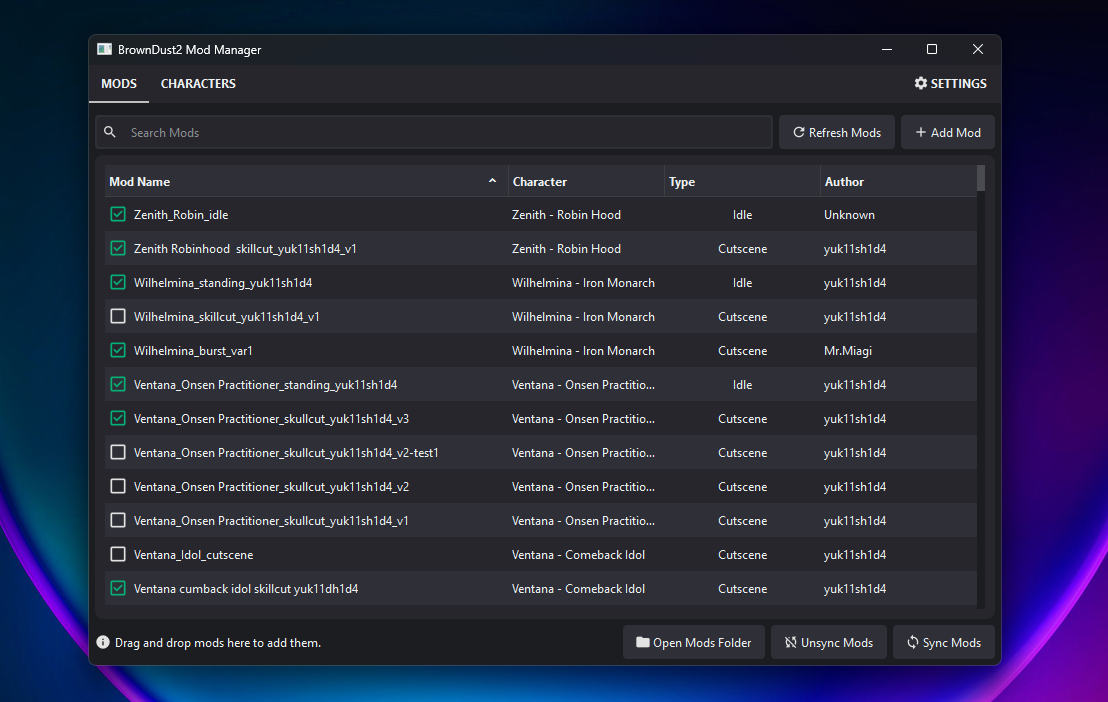
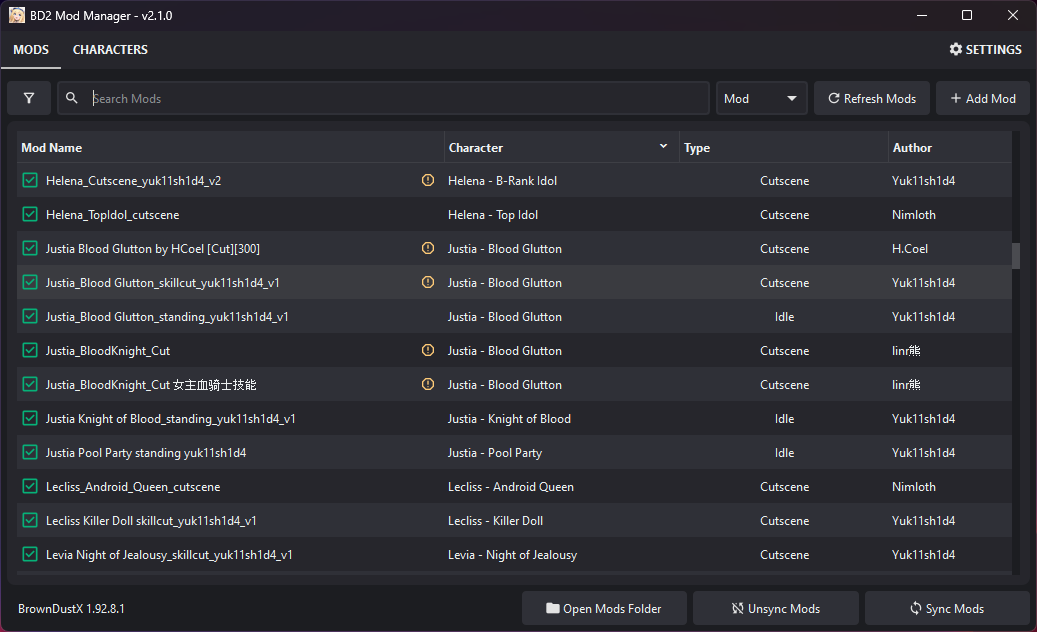
:bookmark: Release v2.2.0 and update README

diff --git a/src/gui/main.py b/src/gui/main.py
@@ -22,7 +22,7 @@ LANGUAGE_PATH = app_path / "gui" / "translations"
 class MainWindow(QMainWindow):
     def __init__(self, mod_manager: BD2ModManager, config_manager: BD2MMConfigManager):
         super().__init__()
-        self.setWindowTitle("BD2 Mod Manager - v2.1.0")
+        self.setWindowTitle("BD2 Mod Manager - v2.2.0")
         self.setObjectName("mainWindow")
         self.setGeometry(600, 250, 800, 600)
         

diff --git a/README.md b/README.md
@@ -1,49 +1,94 @@
-## Brown Dust 2 Mod Manager
+# Brown Dust 2 Mod Manager
 
-Manage your Brown Dust 2 mods.
-
----
-
-Download here: [Github Releases](https://github.com/bruhnn/BD2ModManager/releases)
+**Easily manage your Brown Dust 2 mods.**
 
 ---
 
-If you have any problems or ideas, feel free to contact me on Discord: @bruhnnn
+**Download:** *[BD2ModManager on GitHub Releases](https://github.com/bruhnn/BD2ModManager/releases)*
 
 
----
-
-## Features
-
-- Simple drag-and-drop mod installation  
-- Enable or disable mods with a click  
-- Search installed mods quickly  
-- Check which characters have a specific mod type installed  
+*If you have any questions or suggestions, contact me on Discord: `@bruhnnn`*
 
 ---
 
-## How to Get Started
-
-1. Download the app.  
-2. Select your Brown Dust 2 game directory.  
-3. Add your mods by dragging and dropping them into the manager or moving into `mods` folder.  
-4. Enable or disable mods.
-5. Make a backup of your mods.
-6. Sync your mods. This will create a folder named `BD2MM` inside the `BDX` mods folder with all your enabled mods.
-
 ---
+## 🔥 New in v2.2.0
+- Remembers and restores **window size and position**
+- Supports installing **.zip mods** (via drag-and-drop or the "Add Mod" button)
+- Fixed: **"Find Authors"** now works better (still experimental, only works for some mods and only if the mod folder hasn’t been modified)
+- You can now **edit `.modfile` JSON** directly in the manager 
+→ Right-click a mod and select **"Edit Modfile"**
 
-## Screenshots
 
-### Mods Page v1.1.0
-![Mods Page](./screenshots//mods_page_2.png)  
+## ✨ Features
 
-### Characters Page v1.1.0
-![Characters Page](./screenshots//characters_page_1.png)
+- Quick mod search
+- Filter by mod name, character, author, or mod type
+- Copy mods into the game folder with one click (symlink supported)
+- Simple drag-and-drop mod installation
+- Enable or disable mods with one click
+- Check which characters have a specific mod type installed
+- Check if a mod conflict with anothers (need to refresh the mod list if enabled a mod to see)
 
 
 ---
 
-### Credits
-- Characters assets by https://github.com/myssal/Brown-Dust-2-Asset
-- Thanks to Synae for Brown Dust X
+## 🛠 How to Use
+
+1. **Download** the app from [GitHub Releases](https://github.com/bruhnn/BD2ModManager/releases).
+2. **Select your Brown Dust 2 directory** (where `browndust 2.exe` is located)
+   - Example: F:\Neowiz\Browndust2\Browndust2_10000001
+3. **Add your mods** by:
+   - Dragging and dropping them into the Mod Manager  
+   - Or moving them into the `mods/` folder  
+     ⚠ **Note:** This is *not* the BrownDustX `mods` directory. It's a separate folder used by this manager
+
+4. **Enable or disable mods**.
+5. **Sync your mods** to apply changes:
+   - This will create a folder named `BD2MM` inside the `BDX` mods folder with all your enabled mods.
+
+> ⚠ After making any changes (enable, disable, delete, rename), you **must sync** your mods to update the game folder.
+
+
+### Sync Method: Copy vs Symlink
+
+Choose how mods are synced to your BrownDust X `mods` folder:
+
+#### **Copy**
+Copies all enabled mods into the folder.
+
+- ✅ Works everywhere
+- ✅ No admin rights needed
+- ❌ Slower and uses more disk space
+
+#### 🔗 Symlink
+Creates shortcuts instead of copying files.
+
+- ✅ Much faster, saves space
+- ❌ Requires admin rights
+
+
+### Example Comparison with 200 mods
+
+| Copy | Symlink |
+|--------|-------|
+| ![](./screenshots/sync_copy.gif) | ![](./screenshots/sync_symlink.gif) |
+
+
+---
+
+## 📸 Screenshots
+
+### Mods Page (v2.2.0)
+![Mods Page](./screenshots/mods_page.png)
+
+### Characters Page (v2.2.0)
+![Characters Page](./screenshots/characters_page.png)
+
+---
+
+## Credits
+
+- Character assets by [myssal/Brown-Dust-2-Asset](https://github.com/myssal/Brown-Dust-2-Asset)
+- Thanks to **Synae** for *Brown Dust X*
+
